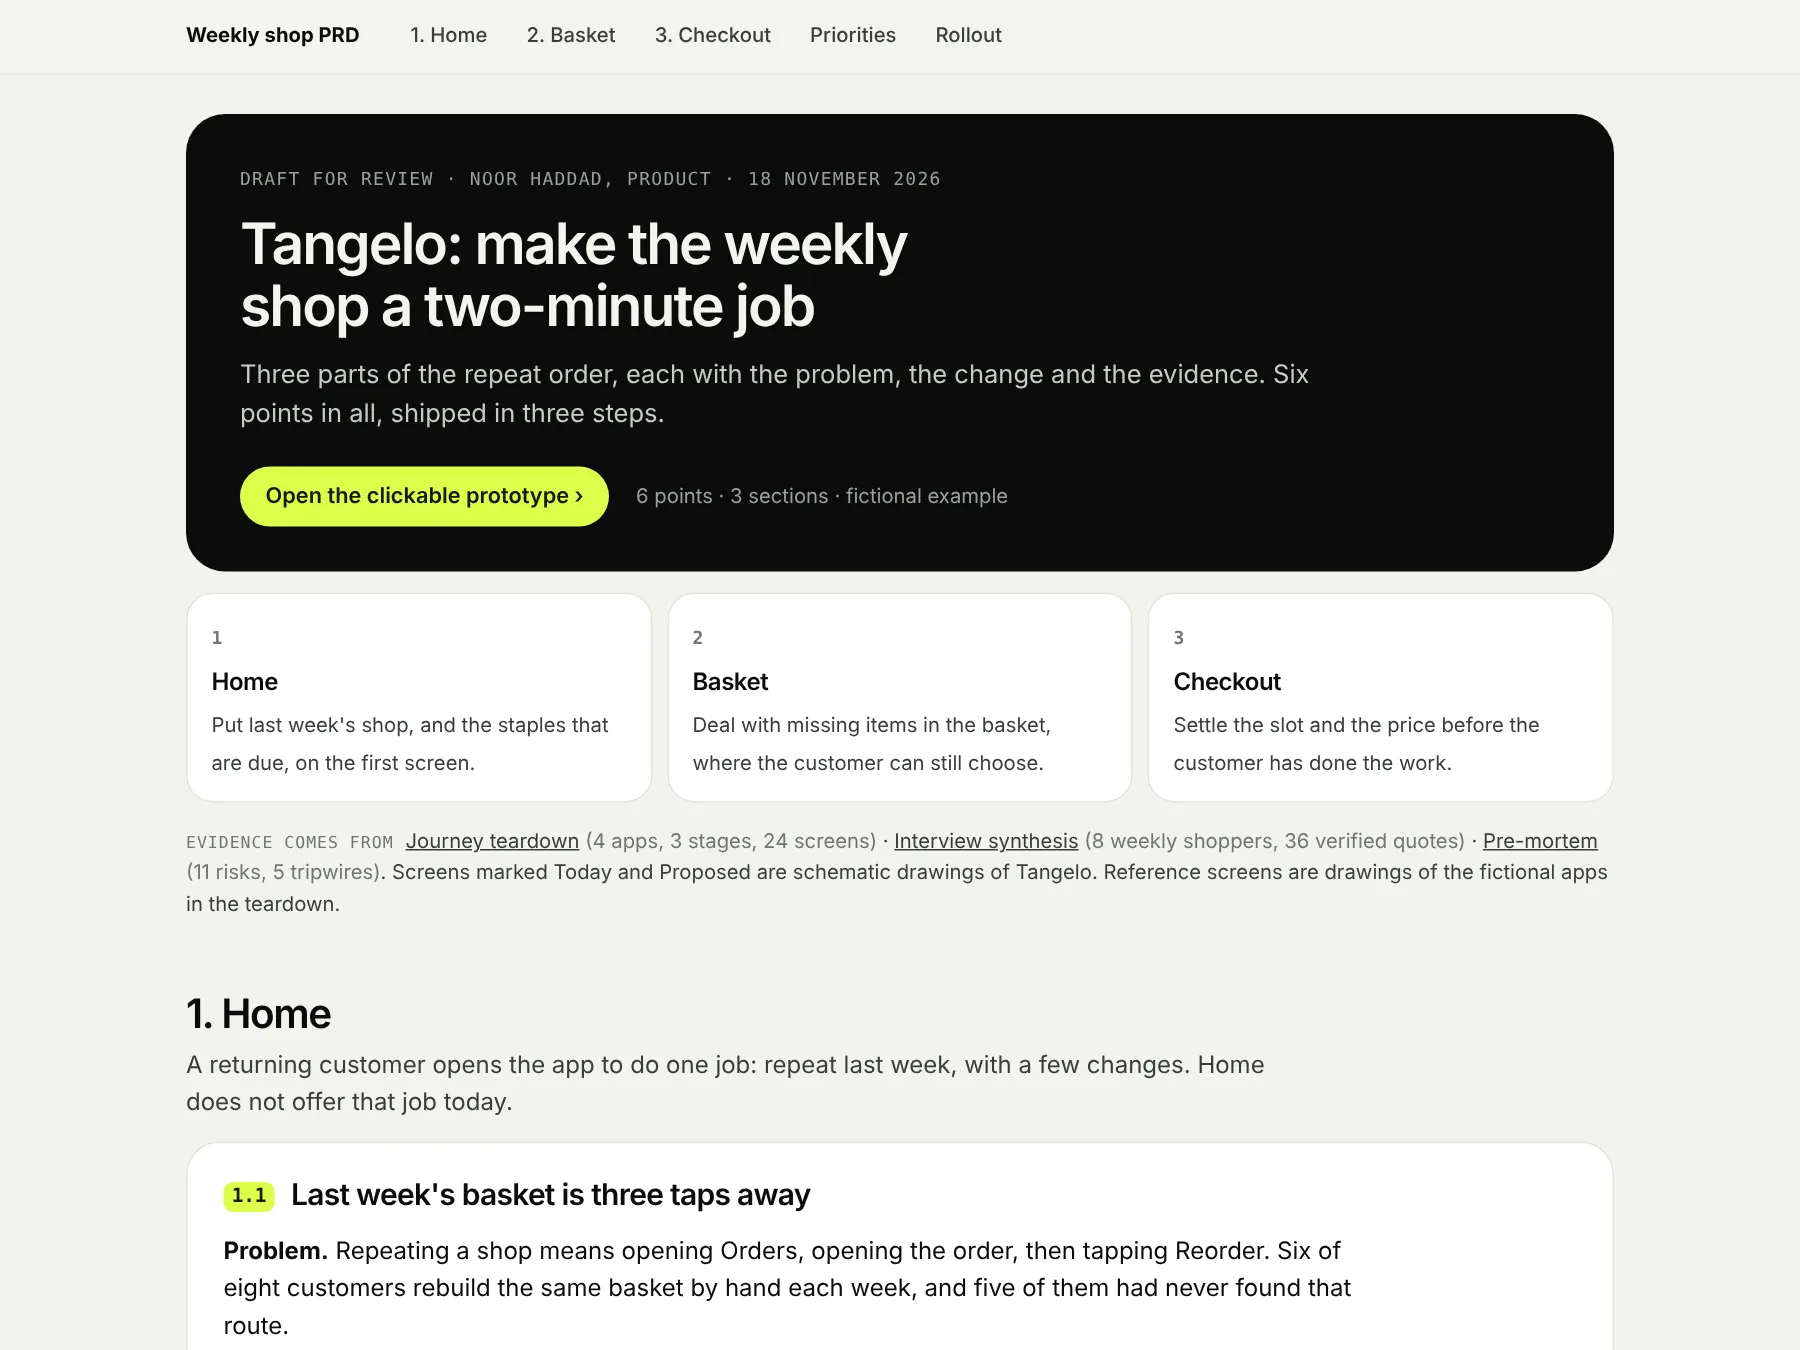
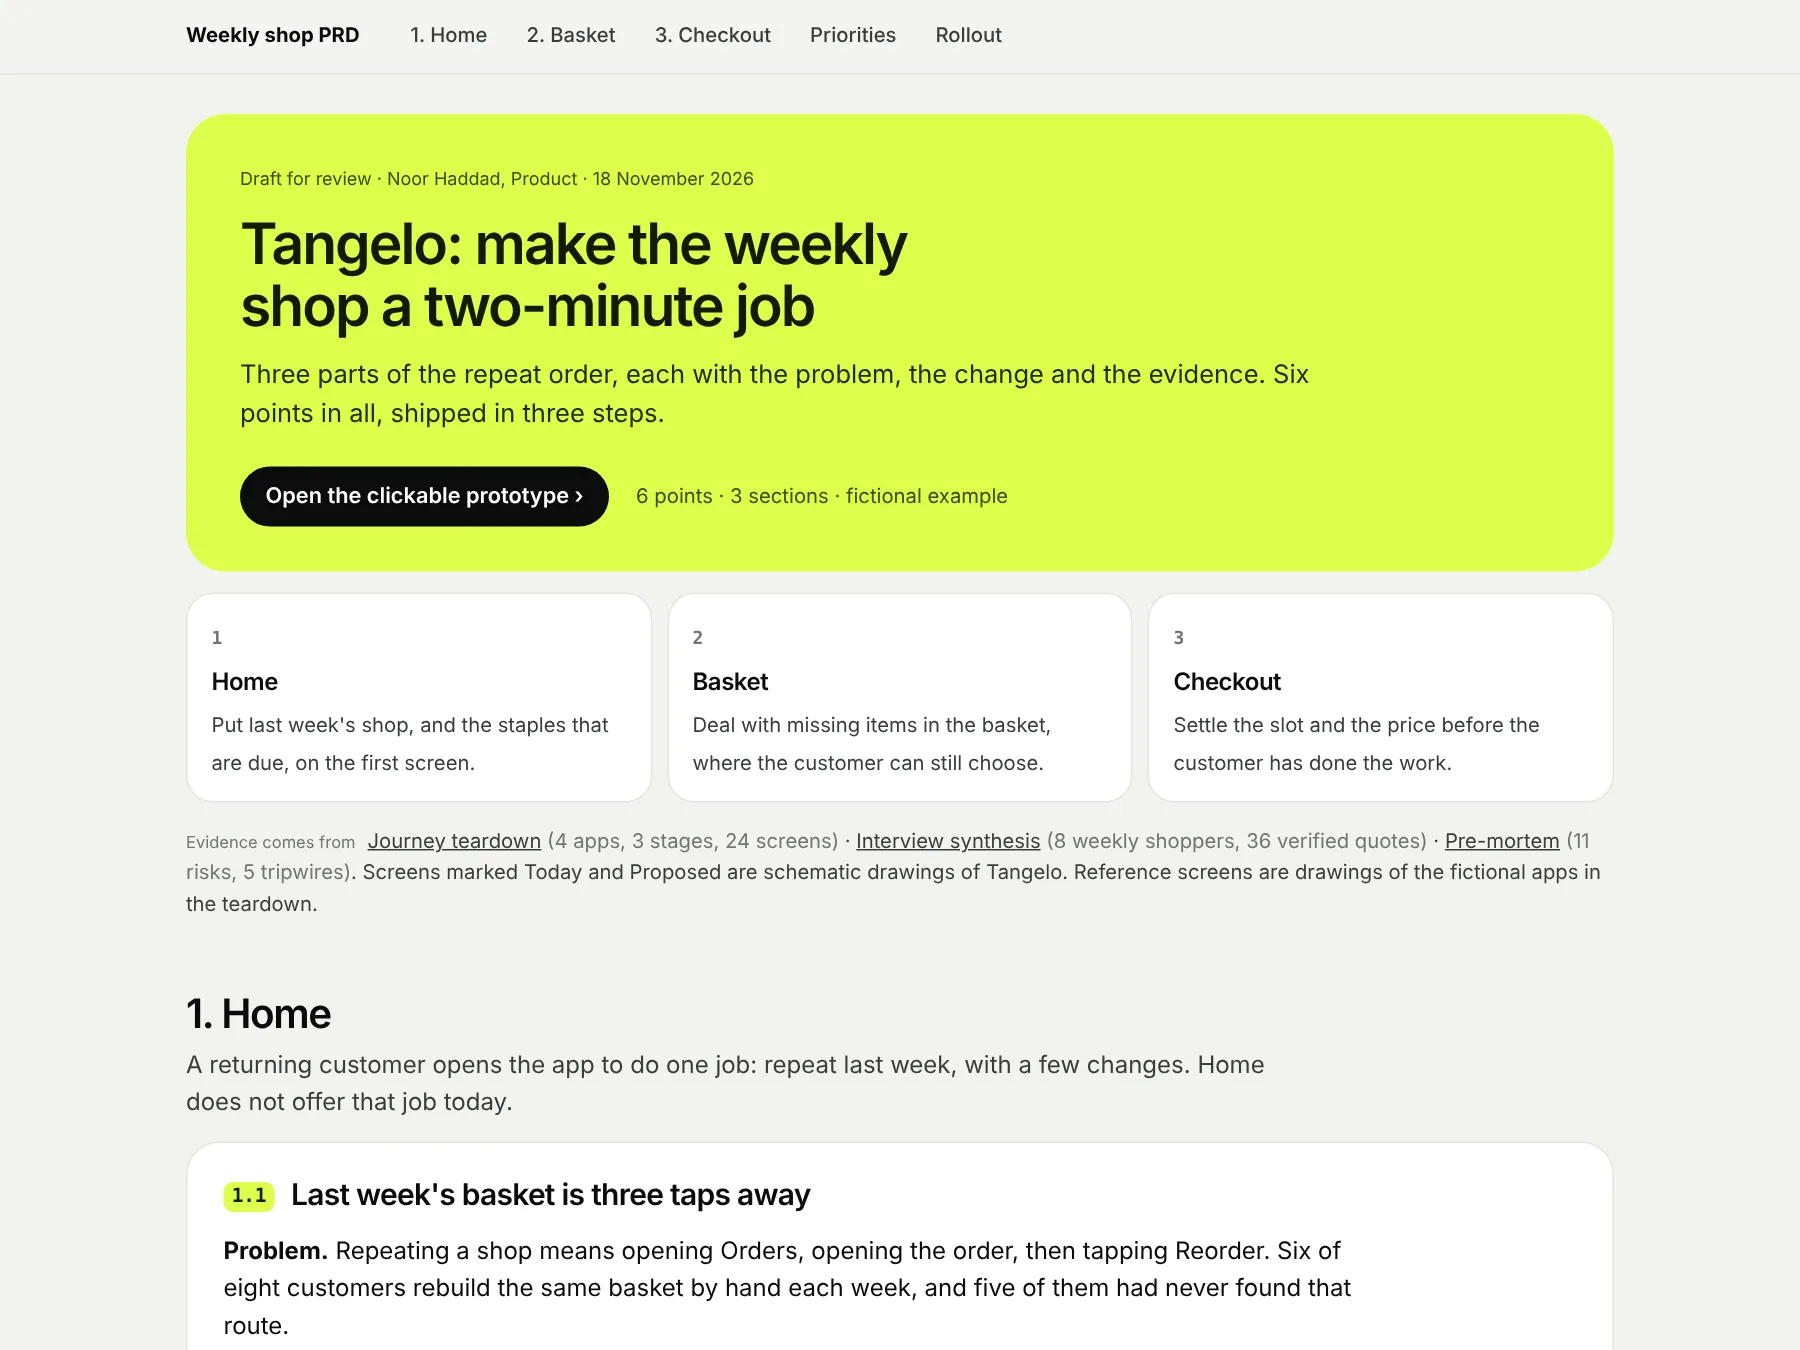
wip(hub): phone-width fixes for the nav and the explorer, fresh templates, pictures of every output
Claude-Session: https://claude.ai/code/session_01584fXGYHMtbf1nzV5Zp1SB

Changed region(s): [[0.0933, 0.0622, 0.9022, 0.4356], [0.0933, 0.6222, 0.9022, 0.6844]]

diff --git a/skills/decision-prd/assets/template.html b/skills/decision-prd/assets/template.html
@@ -5,7 +5,7 @@
 <meta name="viewport" content="width=device-width, initial-scale=1, viewport-fit=cover">
 <title>PRD</title>
 <!-- Made with the AI Workflow Handbook skill "decision-prd". Free, MIT licensed: https://jamesliuzx.github.io/linkedin-operator-notes/skills/ -->
-<style>*,*::before,*::after{box-sizing:border-box}html{-webkit-text-size-adjust:100%}body{margin:0;background:#f3f3ef;color:#0b0c0c;font-family:ui-sans-serif,system-ui,-apple-system,"Segoe UI",Roboto,"Helvetica Neue",Arial,sans-serif}img,svg{max-width:100%}.adoc,.proto{--a-bg: #f3f3ef;--a-card: #ffffff;--a-ink: #0b0c0c;--a-ink2: #3a3d3b;--a-muted: #70756f;--a-faint: #a7aca6;--a-line: #e3e4de;--a-line2: #eeefea;--a-hi: #dcff4a;--a-hi-soft: #f3ffc4;--a-hi-ink: #131a00;--a-ok: #12804b;--a-ok-bg: #e2f6ea;--a-warn: #8f5500;--a-warn-bg: #fff3d9;--a-bad: #bf3327;--a-bad-bg: #fdeae7;--a-info: #2447d6;--a-info-bg: #e9eeff;--a-display: "Bricolage Grotesque", "Geist", ui-sans-serif, system-ui, -apple-system, "Segoe UI", sans-serif;--a-sans: "Geist", ui-sans-serif, system-ui, -apple-system, "Segoe UI", Roboto, "Helvetica Neue", Arial, sans-serif;--a-mono: "Geist Mono", ui-monospace, "SF Mono", Menlo, Consolas, monospace}.aid{display:inline-flex;align-items:center;justify-content:center;min-width:2.1em;height:1.55em;padding:0 .42em;border-radius:.5em;background:var(--a-hi);color:var(--a-hi-ink);font-family:var(--a-mono);font-size:.78em;font-weight:600;letter-spacing:-.01em;white-space:nowrap;text-decoration:none}.aid.ink{background:var(--a-ink);color:var(--a-hi)}.atag{display:inline-flex;align-items:center;height:1.6em;padding:0 .55em;border-radius:999px;font-family:var(--a-sans);font-size:.74em;font-weight:600;white-space:nowrap;background:#eceee9;color:var(--a-ink2)}.atag.ok{background:var(--a-ok-bg);color:var(--a-ok)}.atag.warn{background:var(--a-warn-bg);color:var(--a-warn)}.atag.bad{background:var(--a-bad-bg);color:var(--a-bad)}.atag.info{background:var(--a-info-bg);color:var(--a-info)}.atag.hi{background:var(--a-hi);color:var(--a-hi-ink)}.scr{display:block;width:100%;height:auto}.adoc :is(h1,h2),.adoc :is(.ro-word,.ro-big,.sy-count b,.pm-tally b){font-family:var(--a-display)}.prd{container:prd / inline-size;position:relative;background:var(--a-bg);color:var(--a-ink);font-family:var(--a-sans);font-size:16px;line-height:1.55;-webkit-font-smoothing:antialiased}.prd :where(h1,h2,h3,p,ul,dl,dd,figure,table){margin:0;padding:0;max-width:none;letter-spacing:normal;font-size:inherit;font-weight:inherit;line-height:inherit;text-wrap:wrap}.prd a{color:inherit}.prd code{padding:.1em .35em;border-radius:5px;background:#eceee9;font-family:var(--a-mono);font-size:.88em}.prd mark{padding:0 .15em;border-radius:.15em;background:var(--a-hi);color:var(--a-hi-ink)}.prd-bar{position:sticky;top:0;z-index:10;background:color-mix(in srgb,var(--a-bg) 90%,transparent);-webkit-backdrop-filter:blur(10px);backdrop-filter:blur(10px);border-bottom:1px solid var(--a-line)}.prd-bar-in{display:flex;align-items:center;gap:4px;max-width:1000px;margin:0 auto;padding:9px 24px;overflow-x:auto;scrollbar-width:none}.prd-bar-in::-webkit-scrollbar{display:none}.prd-bar a{flex:none;padding:5px 11px;border-radius:999px;font-size:13.5px;font-weight:500;color:var(--a-ink2);text-decoration:none}.prd-bar a:hover{background:#fff}.prd-bar .prd-brand{margin-right:8px;padding-left:0;font-weight:650;color:var(--a-ink)}.prd-wrap{max-width:1000px;margin:0 auto;padding:26px 24px 60px}.prd-hero{padding:34px 36px 30px;border-radius:26px;background:var(--a-ink);color:#f3f5ee}.prd-ey{font-family:var(--a-sans);font-size:12px;color:#9aa19a}.prd-hero h1{margin-top:14px;max-width:18em;font-size:38px;font-weight:620;letter-spacing:-.035em;line-height:1.08;text-wrap:balance}.prd-hero p{margin-top:12px;max-width:44em;font-size:17px;color:#c6ccc4}.prd-hero-foot{display:flex;flex-wrap:wrap;align-items:center;gap:10px 18px;margin-top:22px;font-size:13.5px;color:#9aa19a}.prd-cta{display:inline-flex;align-items:center;height:40px;padding:0 17px;border-radius:999px;background:var(--a-hi);color:var(--a-hi-ink)!important;font-size:14.5px;font-weight:600;text-decoration:none}.prd-sum{display:grid;grid-template-columns:repeat(3,minmax(0,1fr));gap:10px;margin-top:14px}.prd-sum a{display:block;padding:15px 16px;border:1px solid var(--a-line);border-radius:18px;background:var(--a-card);text-decoration:none;transition:border-color .15s ease}.prd-sum a:hover{border-color:var(--a-ink)}.prd-sum i{font-family:var(--a-mono);font-size:12px;font-style:normal;font-weight:600;color:var(--a-muted)}.prd-sum b{display:block;margin:6px 0 3px;font-size:16px;font-weight:620;letter-spacing:-.02em}.prd-sum span{font-size:13.5px;line-height:1.45;color:var(--a-ink2)}.prd-k{margin-right:8px;font-family:var(--a-sans);font-size:11px;color:var(--a-muted)}.prd-src{margin-top:16px;font-size:13.5px;color:var(--a-ink2)}.prd-src span:not(.prd-k){color:var(--a-muted)}.prd-sec{margin-top:46px;scroll-margin-top:60px}.prd-sec-head h2{font-size:27px;font-weight:620;letter-spacing:-.035em;line-height:1.15}.prd-sec-head p{margin-top:6px;max-width:46em;color:var(--a-ink2)}.prd-pt{margin-top:14px;padding:22px 24px 18px;border:1px solid var(--a-line);border-radius:22px;background:var(--a-card);scroll-margin-top:64px}.prd-pt:target{border-color:var(--a-ink);box-shadow:0 0 0 3px var(--a-hi)}.prd-pt h3{display:flex;align-items:baseline;gap:11px;margin-bottom:11px;font-size:20px;font-weight:620;letter-spacing:-.025em;line-height:1.25}.prd-pt h3 .aid{position:relative;top:-2px;flex:none;font-size:13px}.prd-pt>p{max-width:48em;margin-bottom:9px}.prd-pt>p b{font-weight:650}.prd-why{color:var(--a-ink2)}.prd-note{max-width:52em;margin:6px 0 4px;padding:10px 14px;border-radius:14px;background:var(--a-warn-bg);color:#5d3900;font-size:14.5px;line-height:1.5}.prd-note b{font-weight:650}.prd-figs{display:flex;flex-wrap:wrap;gap:16px;margin-top:16px}.prd-fig{width:150px;flex:none}.prd-fig button{all:unset;display:block;width:100%;border-radius:20px;cursor:zoom-in;box-shadow:0 1px 2px #0b0c0c0f,0 14px 26px -18px #0b0c0c66;transition:transform .2s ease}.prd-fig button:hover{transform:translateY(-2px)}.prd-fig img{display:block;width:100%;height:auto;border-radius:18px;border:1px solid var(--a-line)}.prd-fig figcaption{margin-top:9px;font-size:12.5px;line-height:1.4;color:var(--a-ink2)}.prd-fig figcaption .atag{display:flex;width:fit-content;margin-bottom:5px;font-size:10px}.prd-know{display:grid;grid-template-columns:repeat(3,minmax(0,1fr));gap:0;margin-top:18px;border:1px solid var(--a-line);border-radius:14px;overflow:hidden}.prd-know div{padding:11px 14px 12px}.prd-know div+div{border-left:1px solid var(--a-line)}.prd-know dt{font-family:var(--a-sans);font-size:10.5px;color:var(--a-muted)}.prd-know dd{margin-top:4px;font-size:13.5px;line-height:1.45;color:var(--a-ink2)}.prd-pt-foot{display:flex;flex-wrap:wrap;align-items:center;justify-content:space-between;gap:8px 16px;margin-top:14px;padding-top:12px;border-top:1px solid var(--a-line2);font-size:13px}.prd-cites{display:flex;flex-wrap:wrap;align-items:center;gap:5px}.prd-cite{padding:2px 9px;border-radius:999px;background:#eff0ec;color:var(--a-ink2)!important;font-size:12.5px;text-decoration:none}a.prd-cite:hover{background:var(--a-hi-soft)}.prd-proto{font-weight:550;text-decoration:none;white-space:nowrap}.prd-proto:hover{text-decoration:underline}.prd-tw{margin-top:14px;border:1px solid var(--a-line);border-radius:18px;background:var(--a-card);overflow-x:auto}.prd-table{width:100%;min-width:720px;border-collapse:collapse;font-size:14.5px}.prd-table th,.prd-table td{padding:12px 14px;text-align:left;vertical-align:top;border-top:1px solid var(--a-line2)}.prd-table th{border-top:0;background:#f0f1ed;font-family:var(--a-sans);font-size:11px;font-weight:600;color:var(--a-muted);white-space:nowrap}.prd-table b{font-weight:600}.prd-table .aid{font-size:12.5px}.prd-ids{display:flex;flex-wrap:wrap;gap:4px}.prd-effort{display:inline-grid;place-items:center;min-width:26px;height:22px;padding:0 6px;border:1px solid var(--a-line);border-radius:6px;font-family:var(--a-mono);font-size:12px;font-weight:600}.prd-next h3{margin-bottom:8px}.prd-next ul{padding-left:20px;max-width:50em}.prd-next li{margin:5px 0}.prd-foot{margin-top:36px;font-size:13px;color:var(--a-muted)}.prd-lb{position:fixed;inset:0;z-index:60;display:grid;place-items:center;align-content:center;gap:14px;padding:24px;background:#0b0c0cd1;cursor:zoom-out}.prd-lb[hidden]{display:none}.prd-lb>div{width:min(360px,78vw)}.prd-lb img,.prd-lb svg{display:block;width:100%;height:auto;border-radius:22px}.prd-lb p{color:#fff;font-size:14.5px;text-align:center}@container prd (max-width: 780px){.prd-sum,.prd-know{grid-template-columns:minmax(0,1fr)}.prd-know div+div{border-left:0;border-top:1px solid var(--a-line)}.prd-hero{padding:26px 22px}.prd-hero h1{font-size:29px}.prd-pt{padding:18px 16px 14px}.prd-pt h3{font-size:18px}}@media print{.prd-bar,.prd-lb{display:none!important}.prd{background:#fff}.prd-pt{break-inside:avoid}}#root{min-height:100vh}</style>
+<style>*,*::before,*::after{box-sizing:border-box}html{-webkit-text-size-adjust:100%}body{margin:0;background:#f3f3ef;color:#0b0c0c;font-family:ui-sans-serif,system-ui,-apple-system,"Segoe UI",Roboto,"Helvetica Neue",Arial,sans-serif}img,svg{max-width:100%}.adoc,.proto{--a-bg: #f3f3ef;--a-card: #ffffff;--a-ink: #0b0c0c;--a-ink2: #3a3d3b;--a-muted: #70756f;--a-faint: #a7aca6;--a-line: #e3e4de;--a-line2: #eeefea;--a-hi: #dcff4a;--a-hi-soft: #f3ffc4;--a-hi-ink: #131a00;--a-ok: #12804b;--a-ok-bg: #e2f6ea;--a-warn: #8f5500;--a-warn-bg: #fff3d9;--a-bad: #bf3327;--a-bad-bg: #fdeae7;--a-info: #2447d6;--a-info-bg: #e9eeff;--a-display: "Bricolage Grotesque", "Geist", ui-sans-serif, system-ui, -apple-system, "Segoe UI", sans-serif;--a-sans: "Geist", ui-sans-serif, system-ui, -apple-system, "Segoe UI", Roboto, "Helvetica Neue", Arial, sans-serif;--a-mono: "Geist Mono", ui-monospace, "SF Mono", Menlo, Consolas, monospace}.aid{display:inline-flex;align-items:center;justify-content:center;min-width:2.1em;height:1.55em;padding:0 .42em;border-radius:.5em;background:var(--a-hi);color:var(--a-hi-ink);font-family:var(--a-mono);font-size:.78em;font-weight:600;letter-spacing:-.01em;white-space:nowrap;text-decoration:none}.aid.ink{background:var(--a-ink);color:var(--a-hi)}.atag{display:inline-flex;align-items:center;height:1.6em;padding:0 .55em;border-radius:999px;font-family:var(--a-sans);font-size:.74em;font-weight:600;white-space:nowrap;background:#eceee9;color:var(--a-ink2)}.atag.ok{background:var(--a-ok-bg);color:var(--a-ok)}.atag.warn{background:var(--a-warn-bg);color:var(--a-warn)}.atag.bad{background:var(--a-bad-bg);color:var(--a-bad)}.atag.info{background:var(--a-info-bg);color:var(--a-info)}.atag.hi{background:var(--a-hi);color:var(--a-hi-ink)}.scr{display:block;width:100%;height:auto}.adoc :is(h1,h2),.adoc :is(.ro-word,.ro-big,.sy-count b,.pm-tally b){font-family:var(--a-display)}.prd{container:prd / inline-size;position:relative;background:var(--a-bg);color:var(--a-ink);font-family:var(--a-sans);font-size:16px;line-height:1.55;-webkit-font-smoothing:antialiased}.prd :where(h1,h2,h3,p,ul,dl,dd,figure,table){margin:0;padding:0;max-width:none;letter-spacing:normal;font-size:inherit;font-weight:inherit;line-height:inherit;text-wrap:wrap}.prd a{color:inherit}.prd code{padding:.1em .35em;border-radius:5px;background:#eceee9;font-family:var(--a-mono);font-size:.88em}.prd mark{padding:0 .15em;border-radius:.15em;background:var(--a-hi);color:var(--a-hi-ink)}.prd-bar{position:sticky;top:0;z-index:10;background:color-mix(in srgb,var(--a-bg) 90%,transparent);-webkit-backdrop-filter:blur(10px);backdrop-filter:blur(10px);border-bottom:1px solid var(--a-line)}.prd-bar-in{display:flex;align-items:center;gap:4px;max-width:1000px;margin:0 auto;padding:9px 24px;overflow-x:auto;scrollbar-width:none}.prd-bar-in::-webkit-scrollbar{display:none}.prd-bar a{flex:none;padding:5px 11px;border-radius:999px;font-size:13.5px;font-weight:500;color:var(--a-ink2);text-decoration:none}.prd-bar a:hover{background:#fff}.prd-bar .prd-brand{margin-right:8px;padding-left:0;font-weight:650;color:var(--a-ink)}.prd-wrap{max-width:1000px;margin:0 auto;padding:26px 24px 60px}.prd-hero{padding:34px 36px 30px;border-radius:26px;background:var(--a-hi);color:var(--a-hi-ink)}.prd-ey{font-family:var(--a-sans);font-size:12px;color:#3d4a00}.prd-hero h1{margin-top:14px;max-width:18em;font-size:38px;font-weight:620;letter-spacing:-.035em;line-height:1.08;text-wrap:balance}.prd-hero p{margin-top:12px;max-width:44em;font-size:17px;color:#232b00}.prd-hero-foot{display:flex;flex-wrap:wrap;align-items:center;gap:10px 18px;margin-top:22px;font-size:13.5px;color:#3d4a00}.prd-cta{display:inline-flex;align-items:center;height:40px;padding:0 17px;border-radius:999px;background:var(--a-ink);color:#fff!important;font-size:14.5px;font-weight:600;text-decoration:none}.prd-sum{display:grid;grid-template-columns:repeat(3,minmax(0,1fr));gap:10px;margin-top:14px}.prd-sum a{display:block;padding:15px 16px;border:1px solid var(--a-line);border-radius:18px;background:var(--a-card);text-decoration:none;transition:border-color .15s ease}.prd-sum a:hover{border-color:var(--a-ink)}.prd-sum i{font-family:var(--a-mono);font-size:12px;font-style:normal;font-weight:600;color:var(--a-muted)}.prd-sum b{display:block;margin:6px 0 3px;font-size:16px;font-weight:620;letter-spacing:-.02em}.prd-sum span{font-size:13.5px;line-height:1.45;color:var(--a-ink2)}.prd-k{margin-right:8px;font-family:var(--a-sans);font-size:11px;color:var(--a-muted)}.prd-src{margin-top:16px;font-size:13.5px;color:var(--a-ink2)}.prd-src span:not(.prd-k){color:var(--a-muted)}.prd-sec{margin-top:46px;scroll-margin-top:60px}.prd-sec-head h2{font-size:27px;font-weight:620;letter-spacing:-.035em;line-height:1.15}.prd-sec-head p{margin-top:6px;max-width:46em;color:var(--a-ink2)}.prd-pt{margin-top:14px;padding:22px 24px 18px;border:1px solid var(--a-line);border-radius:22px;background:var(--a-card);scroll-margin-top:64px}.prd-pt:target{border-color:var(--a-ink);box-shadow:0 0 0 3px var(--a-hi)}.prd-pt h3{display:flex;align-items:baseline;gap:11px;margin-bottom:11px;font-size:20px;font-weight:620;letter-spacing:-.025em;line-height:1.25}.prd-pt h3 .aid{position:relative;top:-2px;flex:none;font-size:13px}.prd-pt>p{max-width:48em;margin-bottom:9px}.prd-pt>p b{font-weight:650}.prd-why{color:var(--a-ink2)}.prd-note{max-width:52em;margin:6px 0 4px;padding:10px 14px;border-radius:14px;background:var(--a-warn-bg);color:#5d3900;font-size:14.5px;line-height:1.5}.prd-note b{font-weight:650}.prd-figs{display:flex;flex-wrap:wrap;gap:16px;margin-top:16px}.prd-fig{width:150px;flex:none}.prd-fig button{all:unset;display:block;width:100%;border-radius:20px;cursor:zoom-in;box-shadow:0 1px 2px #0b0c0c0f,0 14px 26px -18px #0b0c0c66;transition:transform .2s ease}.prd-fig button:hover{transform:translateY(-2px)}.prd-fig img{display:block;width:100%;height:auto;border-radius:18px;border:1px solid var(--a-line)}.prd-fig figcaption{margin-top:9px;font-size:12.5px;line-height:1.4;color:var(--a-ink2)}.prd-fig figcaption .atag{display:flex;width:fit-content;margin-bottom:5px;font-size:10px}.prd-know{display:grid;grid-template-columns:repeat(3,minmax(0,1fr));gap:0;margin-top:18px;border:1px solid var(--a-line);border-radius:14px;overflow:hidden}.prd-know div{padding:11px 14px 12px}.prd-know div+div{border-left:1px solid var(--a-line)}.prd-know dt{font-family:var(--a-sans);font-size:10.5px;color:var(--a-muted)}.prd-know dd{margin-top:4px;font-size:13.5px;line-height:1.45;color:var(--a-ink2)}.prd-pt-foot{display:flex;flex-wrap:wrap;align-items:center;justify-content:space-between;gap:8px 16px;margin-top:14px;padding-top:12px;border-top:1px solid var(--a-line2);font-size:13px}.prd-cites{display:flex;flex-wrap:wrap;align-items:center;gap:5px}.prd-cite{padding:2px 9px;border-radius:999px;background:#eff0ec;color:var(--a-ink2)!important;font-size:12.5px;text-decoration:none}a.prd-cite:hover{background:var(--a-hi-soft)}.prd-proto{font-weight:550;text-decoration:none;white-space:nowrap}.prd-proto:hover{text-decoration:underline}.prd-tw{margin-top:14px;border:1px solid var(--a-line);border-radius:18px;background:var(--a-card);overflow-x:auto}.prd-table{width:100%;min-width:720px;border-collapse:collapse;font-size:14.5px}.prd-table th,.prd-table td{padding:12px 14px;text-align:left;vertical-align:top;border-top:1px solid var(--a-line2)}.prd-table th{border-top:0;background:#f0f1ed;font-family:var(--a-sans);font-size:11px;font-weight:600;color:var(--a-muted);white-space:nowrap}.prd-table b{font-weight:600}.prd-table .aid{font-size:12.5px}.prd-ids{display:flex;flex-wrap:wrap;gap:4px}.prd-effort{display:inline-grid;place-items:center;min-width:26px;height:22px;padding:0 6px;border:1px solid var(--a-line);border-radius:6px;font-family:var(--a-mono);font-size:12px;font-weight:600}.prd-next h3{margin-bottom:8px}.prd-next ul{padding-left:20px;max-width:50em}.prd-next li{margin:5px 0}.prd-foot{margin-top:36px;font-size:13px;color:var(--a-muted)}.prd-lb{position:fixed;inset:0;z-index:60;display:grid;place-items:center;align-content:center;gap:14px;padding:24px;background:#0b0c0cd1;cursor:zoom-out}.prd-lb[hidden]{display:none}.prd-lb>div{width:min(360px,78vw)}.prd-lb img,.prd-lb svg{display:block;width:100%;height:auto;border-radius:22px}.prd-lb p{color:#fff;font-size:14.5px;text-align:center}@container prd (max-width: 780px){.prd-sum,.prd-know{grid-template-columns:minmax(0,1fr)}.prd-know div+div{border-left:0;border-top:1px solid var(--a-line)}.prd-hero{padding:26px 22px}.prd-hero h1{font-size:29px}.prd-pt{padding:18px 16px 14px}.prd-pt h3{font-size:18px}}@media print{.prd-bar,.prd-lb{display:none!important}.prd{background:#fff}.prd-pt{break-inside:avoid}}#root{min-height:100vh}</style>
 </head>
 <body>
 <div id="root"></div>

diff --git a/hub/src/styles/base.css b/hub/src/styles/base.css
@@ -969,3 +969,24 @@ button.chip:hover {
 .cases button[aria-pressed="true"] span {
   color: var(--ink-2);
 }
+
+/* A phone has room for the name, search and the menu. The rest is in the menu. */
+@media (max-width: 480px) {
+  .nav-in {
+    gap: 0.5rem;
+  }
+
+  .brand {
+    gap: 0.5rem;
+    font-size: 1rem;
+  }
+
+  .brand .mark {
+    width: 26px;
+    height: 26px;
+  }
+
+  .nav-end > a.icon-btn {
+    display: none;
+  }
+}

diff --git a/hub/src/styles/home.css b/hub/src/styles/home.css
@@ -96,6 +96,7 @@
 .xp {
   --pad: clamp(0.7rem, 1.5vw, 1.4rem);
   display: grid;
+  grid-template-columns: minmax(0, 1fr);
   gap: var(--pad);
   padding: var(--pad);
   border-radius: calc(var(--r-xl) + var(--pad));
